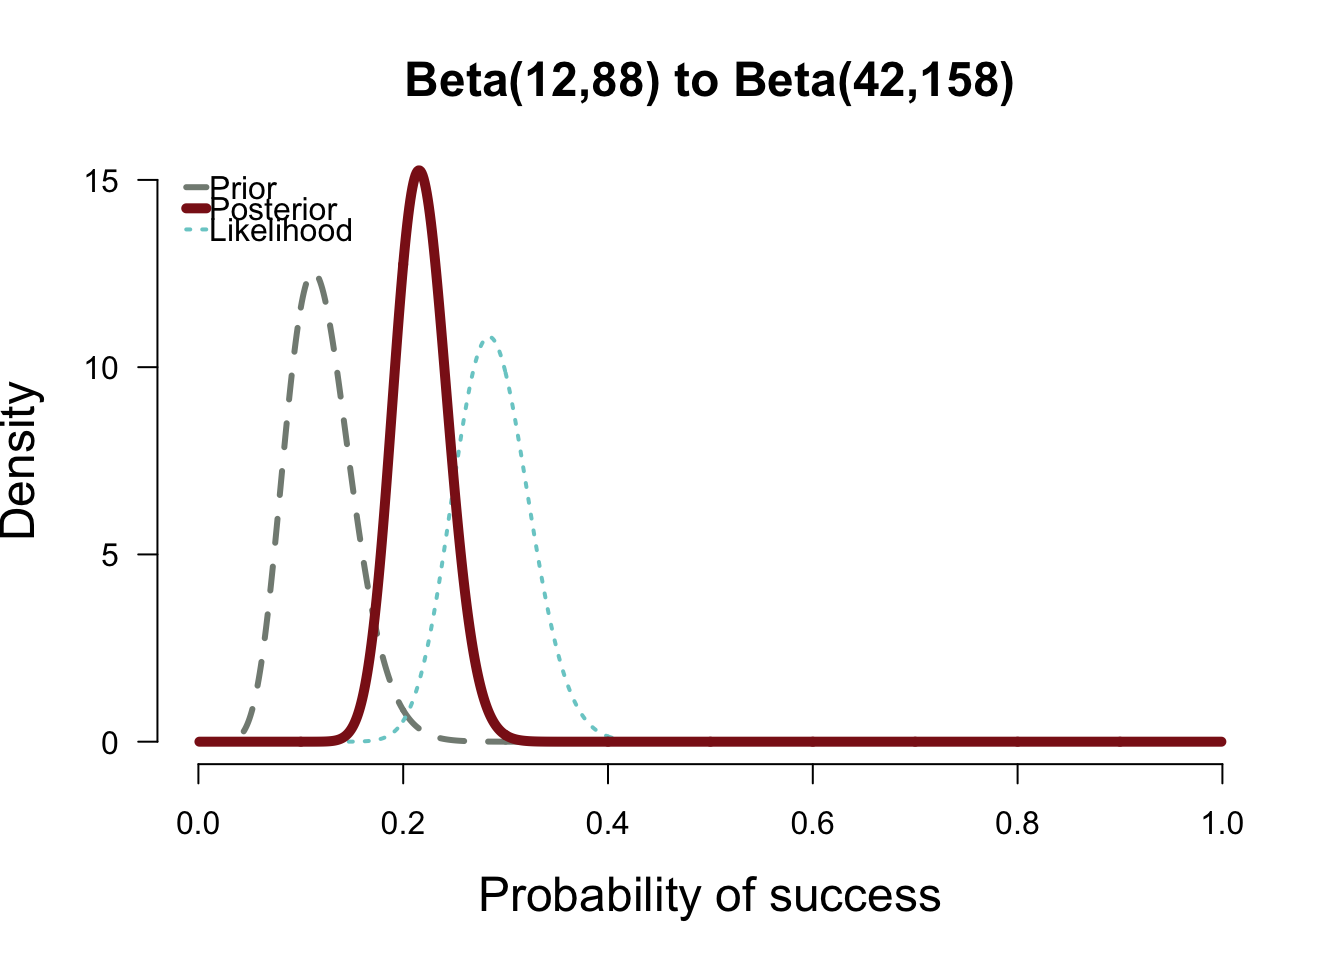
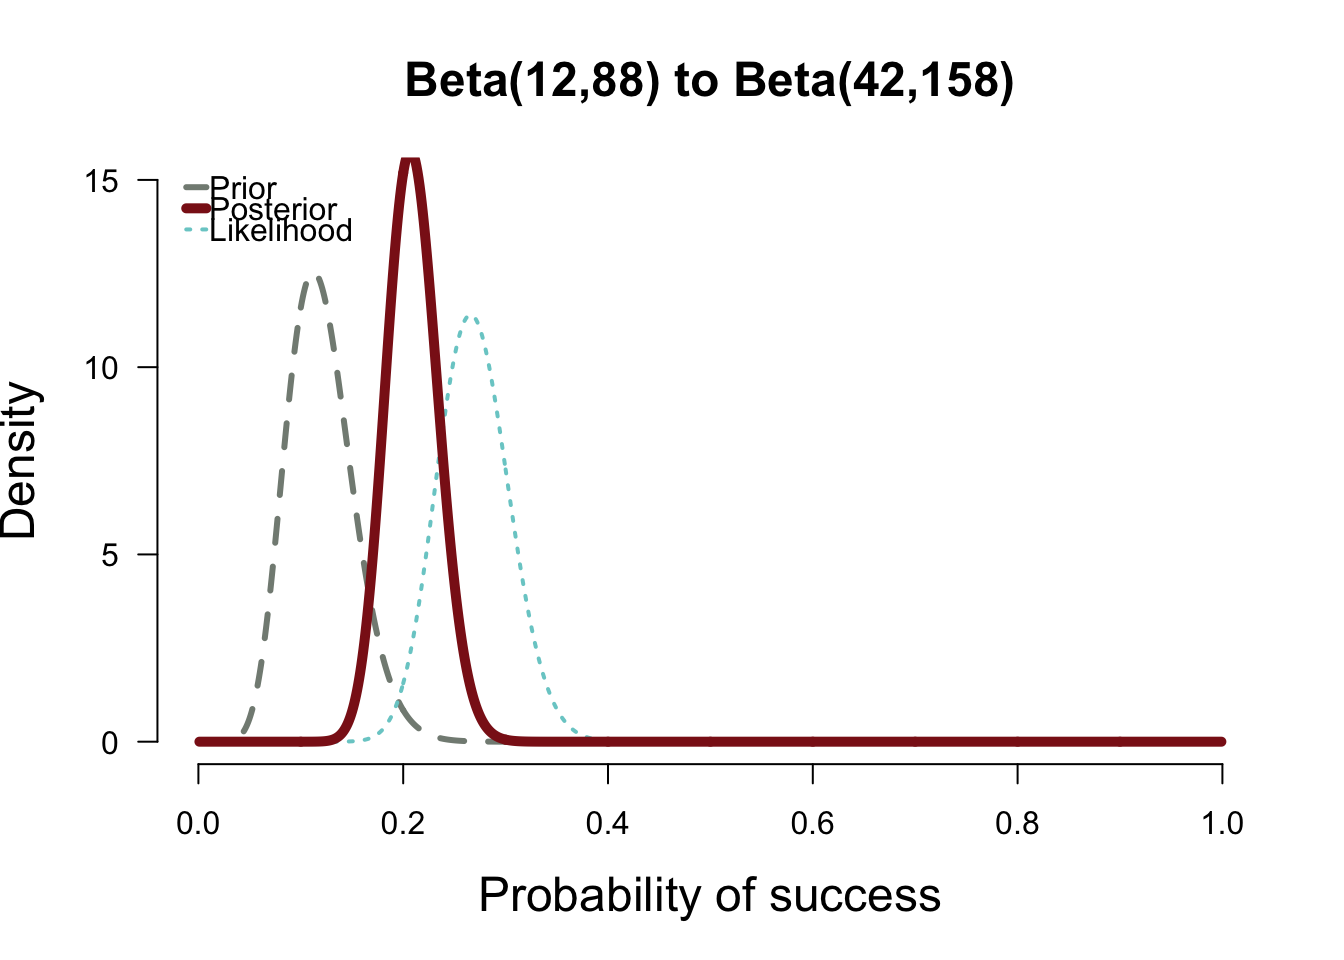
more edits

Changed region(s): [[0.25, 0.1562, 0.4062, 0.7812], [0.4062, 0.7188, 0.4375, 0.75]]

diff --git a/public/post/getting-started-with-bayesian-inference/index.html b/public/post/getting-started-with-bayesian-inference/index.html
@@ -201,7 +201,7 @@ axis(2, las=1) # custom y axis</code></pre>
 plot.beta(1,1,31,71,ymax=10,main=&quot;Beta(1,1) to Beta(31,71)&quot;)</code></pre>
 <p><img src="/post/2020-06-12-an-attempt-at-bayesian-hypothesis-testing_files/figure-html/unnamed-chunk-5-1.png" width="672" /></p>
 <p>With the uniform prior, the posterior falls right on top of the likelihood function. In the plot above, the likelihood is nearly invisible because the posterior sits right on top of it. When the prior has only 1 or 2 data points worth of information, it has essentially no impact on the posterior shape</p>
-<pre class="r"><code>plot.beta(12,88,42,148,ymax=15,main=&quot;Beta(12,88) to Beta(42,158)&quot;)</code></pre>
+<pre class="r"><code>plot.beta(12,88,42,158,ymax=15,main=&quot;Beta(12,88) to Beta(42,158)&quot;)</code></pre>
 <p><img src="/post/2020-06-12-an-attempt-at-bayesian-hypothesis-testing_files/figure-html/unnamed-chunk-6-1.png" width="672" /></p>
 <p>The second plot above shows how the posterior splits the difference between the likelihood and the informed prior. My takeaway is that the the probability of having the flu based on the data you’ve collected is about 20% which is slightly higher than the prior.</p>
 <p>Now we have the posterior distribution, we can derive statistics from it. For example, we could use the expected value of the distribution. Or we could calculate the variance to quantify our uncertainty about our conclusion. One of the most common statistics calculated from the posterior distribution is the mode. This is often used as the estimate of the true value for the parameter of interest and is known as the Maximum a posteriori probability estimate or simply, the MAP estimate. But that’s for another time</p>

diff --git a/content/post/2020-06-12-an-attempt-at-bayesian-hypothesis-testing.html b/content/post/2020-06-12-an-attempt-at-bayesian-hypothesis-testing.html
@@ -92,7 +92,7 @@ axis(2, las=1) # custom y axis</code></pre>
 plot.beta(1,1,31,71,ymax=10,main=&quot;Beta(1,1) to Beta(31,71)&quot;)</code></pre>
 <p><img src="/post/2020-06-12-an-attempt-at-bayesian-hypothesis-testing_files/figure-html/unnamed-chunk-5-1.png" width="672" /></p>
 <p>With the uniform prior, the posterior falls right on top of the likelihood function. In the plot above, the likelihood is nearly invisible because the posterior sits right on top of it. When the prior has only 1 or 2 data points worth of information, it has essentially no impact on the posterior shape</p>
-<pre class="r"><code>plot.beta(12,88,42,148,ymax=15,main=&quot;Beta(12,88) to Beta(42,158)&quot;)</code></pre>
+<pre class="r"><code>plot.beta(12,88,42,158,ymax=15,main=&quot;Beta(12,88) to Beta(42,158)&quot;)</code></pre>
 <p><img src="/post/2020-06-12-an-attempt-at-bayesian-hypothesis-testing_files/figure-html/unnamed-chunk-6-1.png" width="672" /></p>
 <p>The second plot above shows how the posterior splits the difference between the likelihood and the informed prior. My takeaway is that the the probability of having the flu based on the data you’ve collected is about 20% which is slightly higher than the prior.</p>
 <p>Now we have the posterior distribution, we can derive statistics from it. For example, we could use the expected value of the distribution. Or we could calculate the variance to quantify our uncertainty about our conclusion. One of the most common statistics calculated from the posterior distribution is the mode. This is often used as the estimate of the true value for the parameter of interest and is known as the Maximum a posteriori probability estimate or simply, the MAP estimate. But that’s for another time</p>
